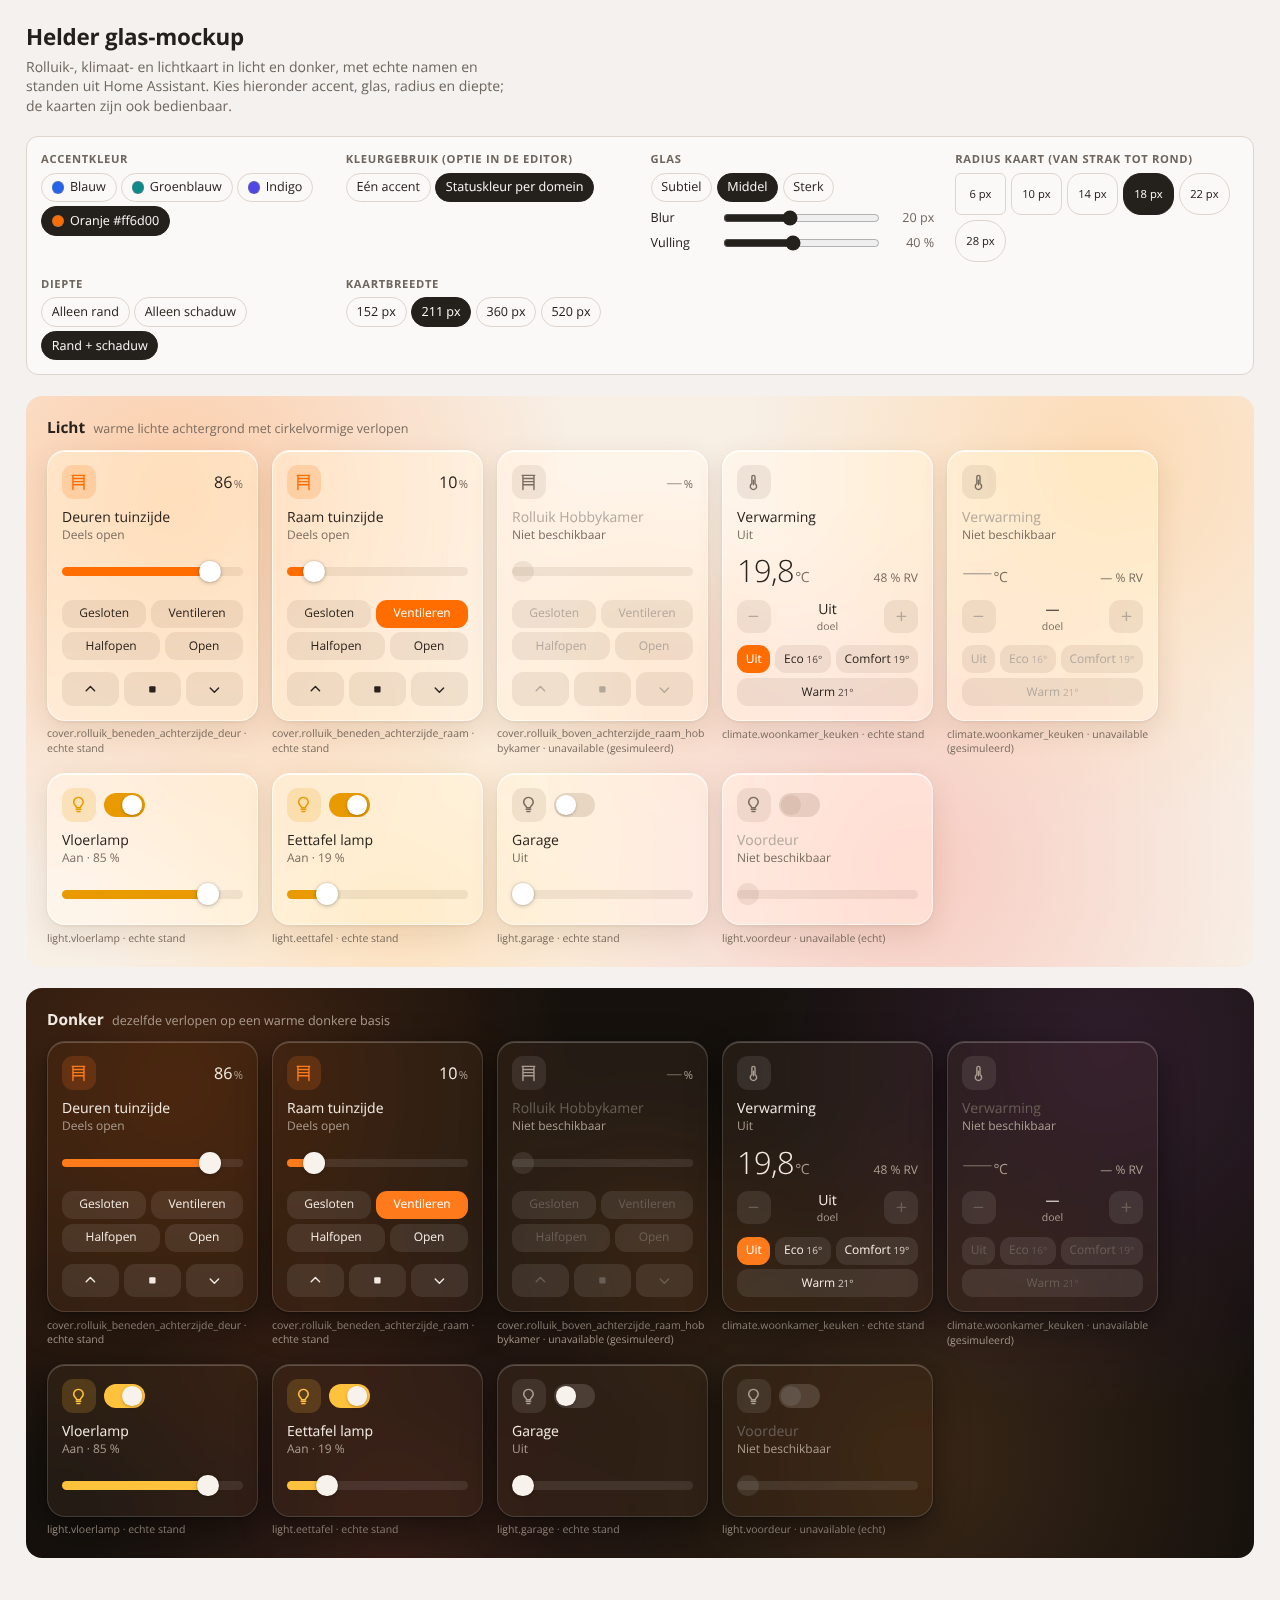
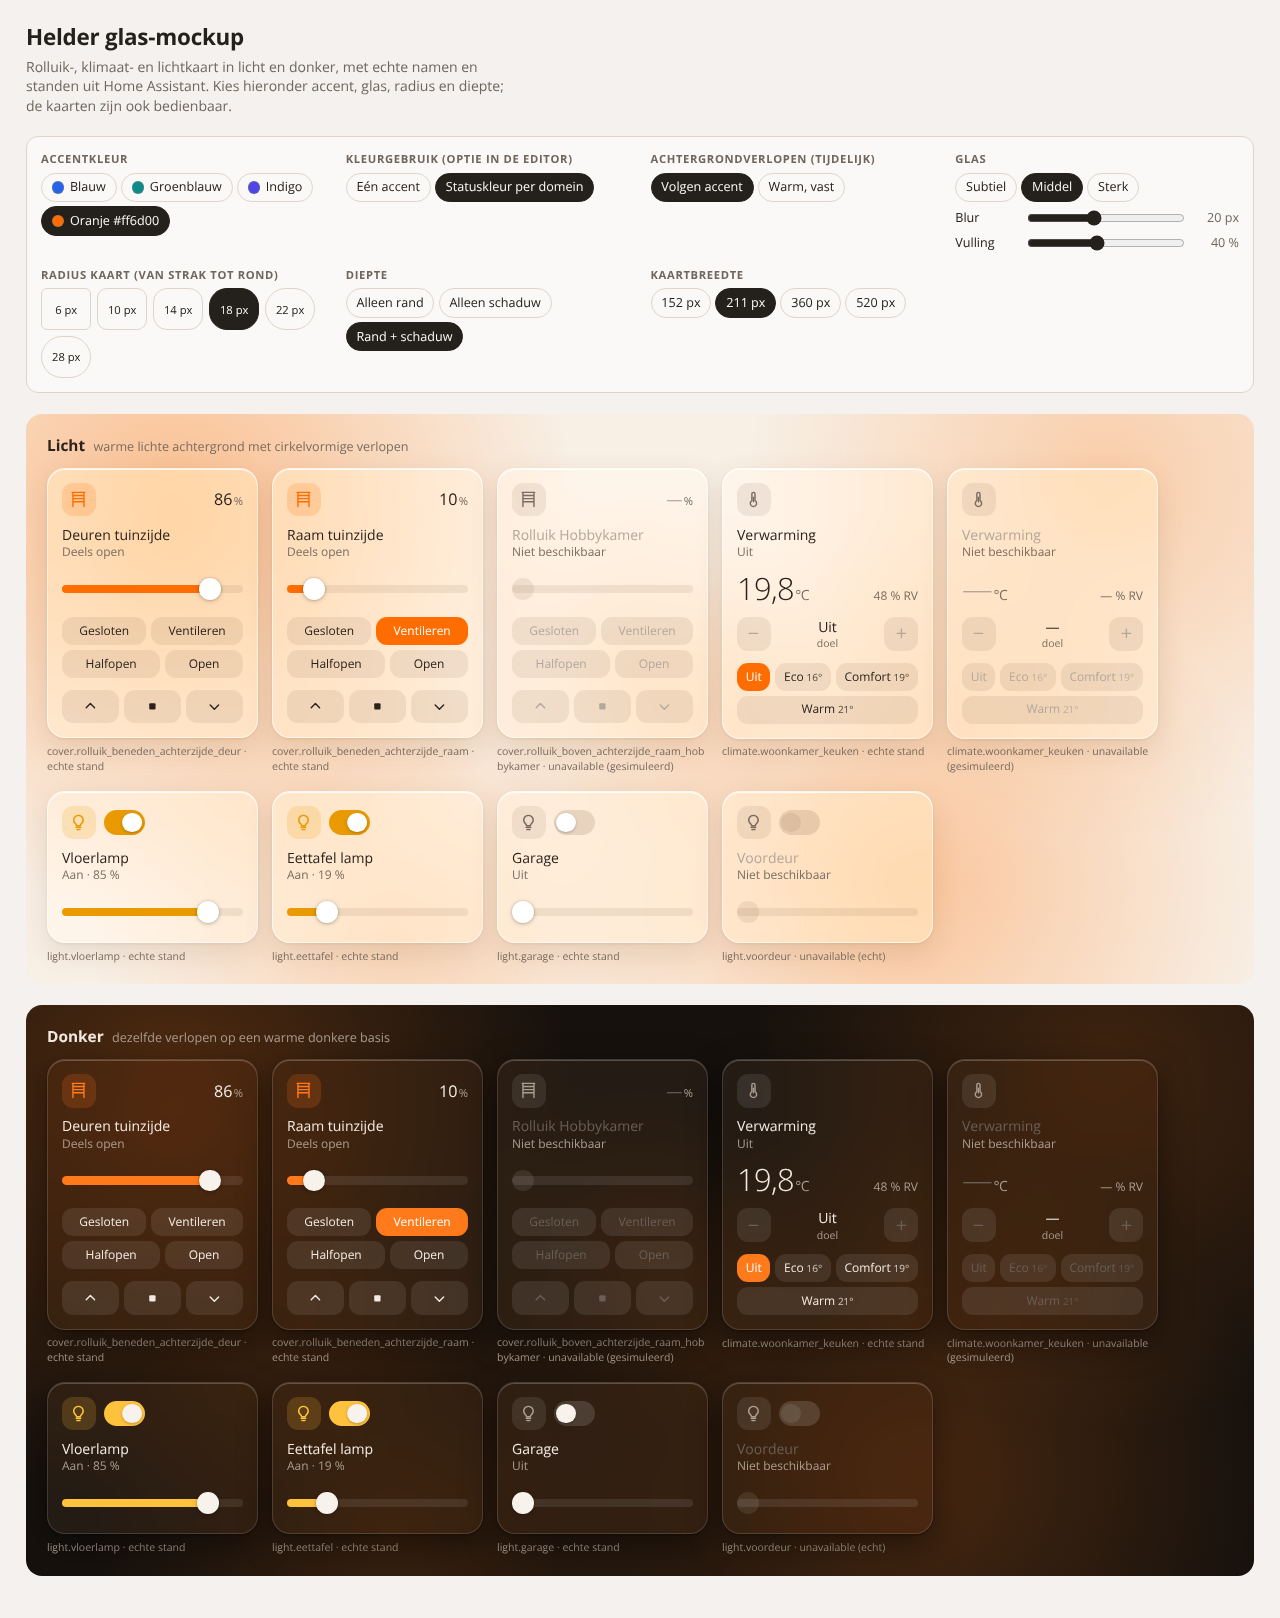
mockup: add temporary toggle to tint background gradients with the accent
Claude-Session: https://claude.ai/code/session_0188TZibxehgLpvZx4MTqWFe

diff --git a/mockup/glass.html b/mockup/glass.html
@@ -161,6 +161,21 @@ header p { margin: .3rem 0 0; color: var(--page-muted); max-width: 60ch; }
 [data-accent="indigo"] .stage[data-mode="dark"]  { --helder-color-accent: #8f88ff; }
 [data-accent="orange"] .stage[data-mode="light"] { --helder-color-accent: #ff6d00; }
 [data-accent="orange"] .stage[data-mode="dark"]  { --helder-color-accent: #ff7a1a; }
+/* tijdelijk: achtergrondverlopen volgen de accentkleur */
+[data-bg="accent"] .stage[data-mode="light"] {
+  --helder-bg-blob-1: color-mix(in srgb, var(--helder-color-accent) 38%, transparent);
+  --helder-bg-blob-2: color-mix(in srgb, var(--helder-color-accent) 26%, transparent);
+  --helder-bg-blob-3: color-mix(in srgb, var(--helder-color-accent) 32%, transparent);
+  --helder-bg-blob-4: color-mix(in srgb, var(--helder-color-accent) 20%, transparent);
+  --helder-bg-blob-5: color-mix(in srgb, var(--helder-color-accent) 16%, transparent);
+}
+[data-bg="accent"] .stage[data-mode="dark"] {
+  --helder-bg-blob-1: color-mix(in srgb, var(--helder-color-accent) 26%, transparent);
+  --helder-bg-blob-2: color-mix(in srgb, var(--helder-color-accent) 18%, transparent);
+  --helder-bg-blob-3: color-mix(in srgb, var(--helder-color-accent) 22%, transparent);
+  --helder-bg-blob-4: color-mix(in srgb, var(--helder-color-accent) 15%, transparent);
+  --helder-bg-blob-5: color-mix(in srgb, var(--helder-color-accent) 10%, transparent);
+}
 .stage { --helder-color-on-accent: #ffffff; }
 
 /* kleurgebruik: één accent of statuskleuren per domein */
@@ -288,7 +303,7 @@ figcaption b { font-weight: 400; }
 @media (prefers-reduced-motion: reduce) { .switch::after { transition: none; } }
 </style>
 
-<div class="wrap" id="app" data-accent="orange" data-colors="domain" data-depth="both">
+<div class="wrap" id="app" data-accent="orange" data-colors="domain" data-depth="both" data-bg="accent">
   <header>
     <h1>Helder glas-mockup</h1>
     <p>Rolluik-, klimaat- en lichtkaart in licht en donker, met echte namen en standen uit Home Assistant. Kies hieronder accent, glas, radius en diepte; de kaarten zijn ook bedienbaar.</p>
@@ -309,6 +324,13 @@ figcaption b { font-weight: 400; }
       <div class="seg" data-set="colors">
         <button data-v="accent">Eén accent</button>
         <button data-v="domain">Statuskleur per domein</button>
+      </div>
+    </div>
+    <div class="ctl">
+      <span class="lbl">Achtergrondverlopen (tijdelijk)</span>
+      <div class="seg" data-set="bg">
+        <button data-v="accent">Volgen accent</button>
+        <button data-v="warm">Warm, vast</button>
       </div>
     </div>
     <div class="ctl">
@@ -483,14 +505,14 @@ figcaption b { font-weight: 400; }
   // ---------- Bedieningspaneel ----------
   const glassPresets = { subtle: [12, 55], medium: [20, 40], strong: [32, 25] };
   const radii = [6, 10, 14, 18, 22, 28];
-  const st = { accent: 'orange', colors: 'domain', glass: 'medium', blur: 20, fill: 40, radius: 18, depth: 'both', width: 211 };
+  const st = { accent: 'orange', colors: 'domain', glass: 'medium', blur: 20, fill: 40, radius: 18, depth: 'both', width: 211, bg: 'accent' };
   try { Object.assign(st, JSON.parse(localStorage.getItem('helder-mockup') || '{}')); } catch (_) {}
 
   document.querySelector('[data-set="radius"]').innerHTML = radii.map(r => `<button data-v="${r}" style="--r:${r}px">${r} px</button>`).join('');
   const blur = document.getElementById('blur'), fill = document.getElementById('fill');
 
   function apply() {
-    app.dataset.accent = st.accent; app.dataset.colors = st.colors; app.dataset.depth = st.depth;
+    app.dataset.accent = st.accent; app.dataset.colors = st.colors; app.dataset.depth = st.depth; app.dataset.bg = st.bg;
     stages.forEach(s => {
       s.el.style.setProperty('--glass-blur', st.blur + 'px');
       s.el.style.setProperty('--glass-alpha', st.fill / 100);
